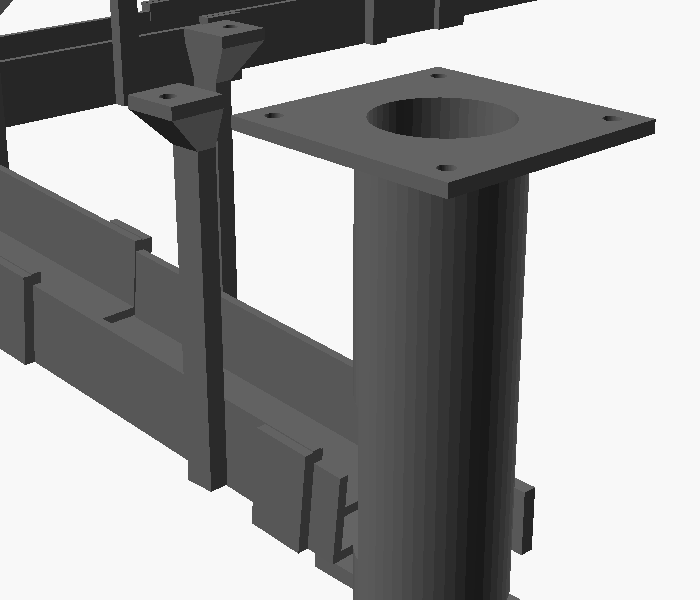
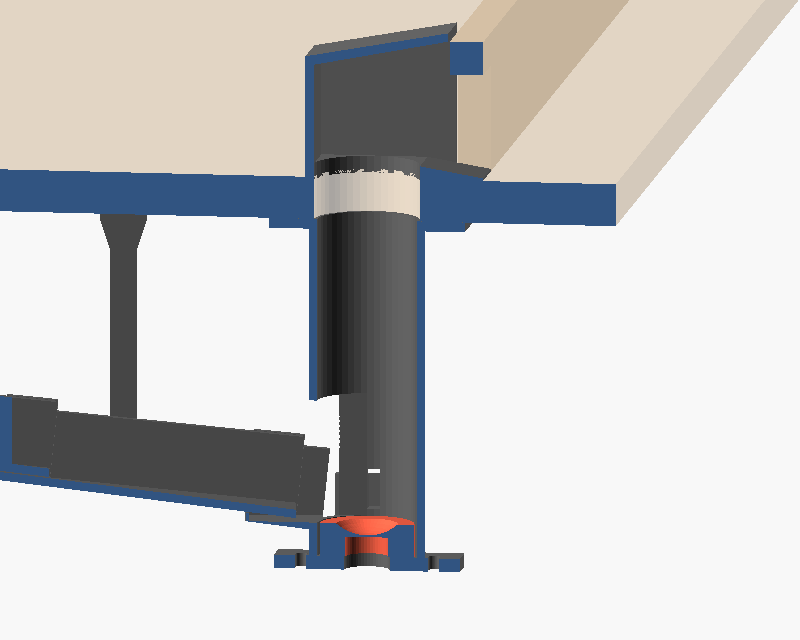
Serve the ball into the shooter lane through its side
The ball lift's tube now rises through a hole beside the shooter lane, and a
printed hood on top of the playfield turns the ball through the opening in the
lane's wall and down a ramp into the lane. The ramp only slopes down into the
lane, so a ball rolling back can't fall in. The ball-path check now follows the
ball to the plunger, and checks a ball rolling back down the lane.

Also: flange checks that parts land on the playfield, the depth measured from
the bottom, a lift cut-away option and image, and fixes from review.

diff --git a/crates/pinball-core/src/playfield.rs b/crates/pinball-core/src/playfield.rs
@@ -52,7 +52,7 @@ pub mod sw {
 
     // Ball handling.
     /// Outhole: every ball ends up waiting here, drained or through a
-    /// trapdoor. Physically it's on the printed ball lift, under the shooter
+    /// trapdoor. Physically it's on the printed ball lift, beside the shooter
     /// lane (see `docs/3d-printing.md`).
     pub const OUTHOLE: SwitchId = SwitchId::matrix(0, 0);
     /// Shooter lane (ball ready to plunge).

diff --git a/docs/3d-printing.md b/docs/3d-printing.md
@@ -1,17 +1,18 @@
 # 3D-printed ball return
 
 The ball return is 3D-printed: everything under the playfield that gets a ball
-from the three trapdoors and the outhole back up into the shooter lane. The
-models are in [`hardware/3d/`](../hardware/3d/). You don't need any
-3D-modelling experience: they're written as code, with every measurement of
-your table in one file. Making them fit means measuring the table and typing
-the numbers in.
+from the three trapdoors and the outhole back up into the shooter lane, and the
+small hood on top that turns it into the lane. The models are in
+[`hardware/3d/`](../hardware/3d/). You don't need any 3D-modelling experience:
+they're written as code, with every measurement of your table in one file.
+Making them fit means measuring the table and typing the numbers in.
 
 ![the whole ball return under the playfield: the trapdoors at the back, the return run down to the outhole funnel, and the serve run across to the ball lift](images/ball-return.png)
 
-*The whole return, seen from below the playfield, with the placeholder
-measurements: the trapdoors (top right), the return run down the table, the
-outhole funnel (left), and the serve run across to the ball lift.*
+*The whole return, seen from above with the playfield hidden, with the
+placeholder measurements: the trapdoors (top right), the return run down the
+table, the outhole funnel (left), and the serve run across to the ball lift,
+with its exit on top.*
 
 ## How it works
 
@@ -26,15 +27,23 @@ outhole funnel (left), and the serve run across to the ball lift.*
    playfield: the playfield's own slope keeps the ball rolling.
 4. **The outhole funnel.** Drained balls drop into it from above, trapdoor
    balls arrive from the return run, and both roll out along the serve run.
-5. **The ball lift.** The serve run brings every ball to a tube under a hole in
-   the shooter lane. The ball waits on the ball-serve coil's plunger, holding
-   the outhole switch closed. When the game serves a ball, the coil kicks it up
-   the tube into the shooter lane.
+5. **The ball lift.** The serve run brings every ball to a tube under a hole
+   beside the shooter lane. The ball waits on the ball-serve coil's plunger,
+   holding the outhole switch closed. When the game serves a ball, the coil
+   kicks it up the tube.
+6. **The ball-lift exit.** On top of the playfield, over the hole (hidden under
+   the apron), the ball hits a hood whose roof slopes up towards the lane. That
+   turns it sideways, and it rolls down a short ramp, through the opening in the
+   shooter lane's wall, and down the lane to the plunger. The ramp only slopes
+   down into the lane, so a ball that rolls back down the lane after a weak
+   plunge goes past the opening to the plunger again.
 
-![the ball lift: a tube rising to a flange under the shooter lane, with the serve run arriving at its base](images/ball-lift.png)
+![the ball lift cut through the middle: the serve run arrives at the bottom of the tube, where the cup waits on the coil's plunger; the tube rises through the playfield into the hood on top, beside the shooter lane's wall](images/ball-lift.png)
 
-*The ball lift (right) under the shooter lane, with the serve run arriving at
-its base.*
+*The ball lift, cut through the middle: the serve run (left) arrives at the
+bottom of the tube, where the cup (red) waits on the coil's plunger. The tube
+rises through the playfield into the hood, beside the shooter lane's wall
+(right).*
 
 | Closed | Open |
 |---|---|
@@ -57,7 +66,8 @@ crank about 80 degrees and the flap swings down to hang straight.*
 | Return run | `return_run_segment.scad` | one of each segment | The channel down the table to the outhole, in segments that fit a printer. Each hangs from the playfield on two posts. |
 | Outhole funnel | `outhole_funnel.scad` | 1 | Catches drained balls and the return run, and feeds the serve run. |
 | Serve run | `serve_run_segment.scad` | one of each segment | The channel across to the ball lift, sloping down. |
-| Ball lift | `ball_lift.scad` | 1 | The tube up into the shooter lane, with mounts for the ball-serve coil and the outhole switch. |
+| Ball lift | `ball_lift.scad` | 1 | The tube up to the hole beside the shooter lane, with mounts for the ball-serve coil and the outhole switch. |
+| Ball-lift exit | `ball_lift_exit.scad` | 1 | Screws on top of the playfield over the hole, and turns the ball through the lane's wall into the shooter lane. |
 | Ball-lift cup | `ball_lift_cup.scad` | 1 | Pushes onto the coil's plunger and cradles the waiting ball. |
 
 `assembly.scad` shows everything in place; it isn't printed. The files in
@@ -86,16 +96,22 @@ measure, on the underside of the playfield:
   use the smallest.
 - **Where things are**, measured from the playfield's **bottom-left corner**
   (nearest the player's left hand): the centre of the middle trapdoor hole,
-  the centre of the outhole and its diameter, and the centre of the hole in the
-  shooter lane that the ball is lifted through, and its diameter.
+  the centre of the outhole and its diameter, and the centre of the hole beside
+  the shooter lane that the ball is lifted through, and its diameter.
+- **The shooter lane**, on top of the playfield: where its wall (the one with
+  the opening the ball rolls in through) is and how thick it is, the opening's
+  width and height, the lane's width, where the plunger's tip is at rest, and
+  how much room there is above the hole, under the apron. The model assumes the
+  opening is straight across from the hole: say if it isn't.
 - **The ball-serve coil**: its plunger's diameter, and the distance between its
   mounting screws.
 
 Also check what's already under the playfield along the route: the return run
 goes straight from the trapdoors to the outhole, and the serve run straight
-across to the shooter lane, about 50 mm and up to 100 mm below the playfield.
-Note anything in the way (coils, wiring, old brackets, the old outhole
-mechanism) and the depth to the cabinet floor.
+across to the shooter lane. `pnpm run export:3d` prints how far below the
+playfield the deepest part reaches (about 105 mm with the placeholders), and
+the ball-serve coil hangs below that. Note anything in the way (coils, wiring,
+old brackets, the old outhole mechanism) and the depth to the cabinet floor.
 
 Photos of the underside with a ruler in shot help a lot if the routes need
 changing.
@@ -117,14 +133,16 @@ a trapdoor hole being too short for the ball to fall past the open flap.
    round, scroll to zoom, and look for anything that would clash with what's
    under your playfield.
 2. Open **Window → Customizer** for the options: tick **open** to see the
-   trapdoors open, **section** to cut beside a trapdoor's drive, and
-   **show_playfield** to show the playfield.
+   trapdoors open, **section** to cut beside a trapdoor's drive,
+   **lift_section** to cut through the ball lift, and **show_playfield** to
+   show the playfield.
 3. Open each file in `hardware/3d/checks/` and press **F6**. Each must say
    **"Current top level object is empty"**:
    - `trapdoor_swing.scad`: as the trapdoors open, nothing they move hits
      anything else.
    - `ball_paths.scad`: a ball can roll the whole way, from each trapdoor and
-     the outhole to the shooter lane, without touching anything.
+     the outhole to the plunger in the shooter lane, without touching
+     anything, and a ball rolling back down the lane rolls past the exit.
    - `parts_overlap.scad`: no two parts overlap where they're fitted.
 
    If something appears instead, that's where the parts collide. Or, from the
@@ -160,8 +178,8 @@ Whichever you use, ask for:
 - **Material: PETG**, not PLA. It's tougher, and it won't soften in the warmth
   under a playfield; PLA starts to at about 55 °C.
 - **0.2 mm layers, 4 walls (perimeters), 30% infill.**
-- **Supports** for the collector, the outhole funnel and the ball lift. The
-  other parts print without.
+- **Supports** for the collector, the outhole funnel, the ball lift and its
+  exit. The other parts print without.
 
 Each part's file says which way up to print it.
 
@@ -183,12 +201,14 @@ Each part's file says which way up to print it.
 4. **Runs.** Fit the return run's segments in order from the collector, each
    socket over the end of the part before, and screw their posts to the
    playfield. Then the outhole funnel under the outhole, the serve run's
-   segments, and the ball lift under the shooter lane's hole.
+   segments, and the ball lift under the hole beside the shooter lane.
 5. **Ball lift.** Bolt the ball-serve coil under the lift's base, push the cup
    onto its plunger, and screw the outhole switch to the tab on the tube with
-   its lever through the slot.
+   its lever through the slot. On top of the playfield, screw the exit over the
+   hole with its ramp through the opening in the lane's wall.
 6. **Roll a ball through** by hand from each trapdoor and the outhole, and
-   watch it reach the lift.
+   watch it reach the lift. Then push the ball up the tube by hand (or pulse the
+   coil in test mode) and watch it roll into the shooter lane.
 
 If something doesn't fit, change the measurement and print that part again:
 that's the point of printing them. Small fit problems usually need

diff --git a/docs/wiring-guide.md b/docs/wiring-guide.md
@@ -520,8 +520,9 @@ it. No modelling experience is needed. Each trapdoor has:
 - **A drive:** a rib under the flap's right edge, a link, and a crank on the
   servo, which hangs under the playfield behind the trapdoor. The servo turns
   about 80° from closed to open, and holds the flap flush when closed. A ball
-  rolling over a closed flap pushes against the servo, which the MG90S's metal
-  gears take.
+  rolling over a closed flap pushes against the servo; the MG90S's metal gears
+  should take it (assumed, *verify*: no fixed stop is possible, because the
+  flap opens downwards).
 - **A catch box** under it, in the collector, with a lever microswitch under
   its floor wired to the trapdoor's matrix position (C4·R5–R7, section 6).
   Each door needs its own switch: only the centre one gives the special's
@@ -539,13 +540,16 @@ If power fails, a servo stays where it was. That's harmless: an open flap just
 swallows the next ball.
 
 **The ball lift.** The printed ball return brings every ball (drained, or
-through a trapdoor) to a tube under a hole in the shooter lane. The ball waits
-there on the plunger of the **ball-serve coil** (coil 0), and the **outhole
-switch** (C0·R0) goes on the tube, its lever touching the waiting ball. When
-the game serves a ball, it pulses the coil, which kicks the ball up the tube
-into the shooter lane. The coil's pulse length may need raising to throw the
-ball the whole way; check it in test mode's coil stage, and see the coil
-safety rules before changing its limit.
+through a trapdoor) to a tube under a hole beside the shooter lane. The ball
+waits there on the plunger of the **ball-serve coil** (coil 0), and the
+**outhole switch** (C0·R0) goes on the tube, its lever touching the waiting
+ball. When the game serves a ball, it pulses the coil, which kicks the ball up
+the tube into a printed hood on top of the playfield; the hood turns it through
+the opening in the lane's wall and into the shooter lane. The coil's pulse
+length may need raising to throw the ball the whole way; check it in test
+mode's coil stage, and see the coil safety rules before changing its limit.
+Until the game retries a serve that falls short (issue #44), a ball that drops
+back down the tube ends that ball.
 
 ---
 

diff --git a/docs/shopping-list.md b/docs/shopping-list.md
@@ -167,7 +167,7 @@ The trapdoors are rebuilt with a hobby servo turning each flap; see the
 | Servo extension leads, 30–50 cm | 3 | From under the playfield to the Arduino | [AliExpress](https://www.aliexpress.com/w/wholesale-servo-extension-cable.html) | 2–4 |
 | Lever microswitches (KW11 type) | 5 | One in each trapdoor's catch box and one in the ball lift (the outhole switch), plus a spare | [AliExpress](https://www.aliexpress.com/w/wholesale-kw11-micro-switch-lever.html) | 2–4 |
 | 2 mm steel rod | 1 length | The flaps' hinge pins | [AliExpress](https://www.aliexpress.com/w/wholesale-2mm-steel-rod.html) | 2–4 |
-| 3D-printed ball return, PETG | about 23 parts | The trapdoors' frame, flaps, links, cranks, servo hangers and collector, and the return run, outhole funnel, serve run and ball lift, from a printing service, library or makerspace. See [3D-printed ball return](3d-printing.md). | [JLCPCB](https://jlcpcb.com/3d-printing) · [Craftcloud](https://craftcloud3d.com) | 40–90 |
+| 3D-printed ball return, PETG | about 24 parts | The trapdoors' frame, flaps, links, cranks, servo hangers and collector, and the return run, outhole funnel, serve run, ball lift and its exit, from a printing service, library or makerspace. See [3D-printed ball return](3d-printing.md). | [JLCPCB](https://jlcpcb.com/3d-printing) · [Craftcloud](https://craftcloud3d.com) | 40–90 |
 | 🛡 Wood screws, 3.5 × 9.5 mm (No. 6 × 3/8") | 1 pack | The frames, into the playfield's underside. **No longer than 9.5 mm**, or they come through the artwork. | [AliExpress](https://www.aliexpress.com/w/wholesale-wood-screw-3.5x9.5.html) | 2–4 |
 | Self-tapping screw assortment, M2 and M3 | 1 box | The collector to the frame (M3 × 6 mm), the cranks to the servo horns, and the links' pivots (M2 × 10 mm) | [AliExpress](https://www.aliexpress.com/w/wholesale-self-tapping-screw-assortment-m2-m3.html) | 3–5 |
 
